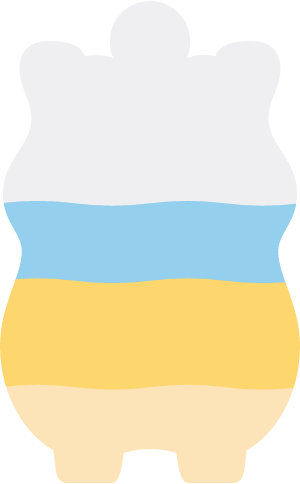
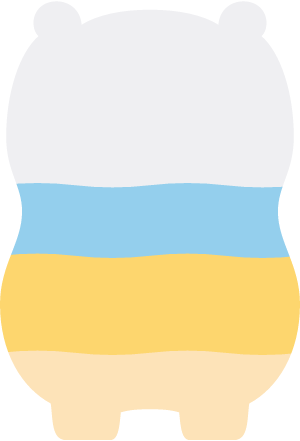
Retrace CapybaraSilhouette to the v2 proportions
Ears to soles at the art's own 459x677 px (aspect 0.68), with the yuzu left out: domed head,
two small separate ears with notches where they meet it, round cheeks, a slight waist, a belly
that bulges at the sides, and two short legs with a gap. verticalExtent now runs from the ear
tips to the soles. Re-rendered fill-preview.png and updated the brand README.

diff --git a/MilkBaby/Mascot/CapybaraSilhouette.swift b/MilkBaby/Mascot/CapybaraSilhouette.swift
@@ -1,25 +1,25 @@
 import SwiftUI
 
-/// The MilkBaby capybara from the front, as on the hero art: yuzu on top, round head with tiny ears,
-/// chubby pear-shaped body and short legs. Drawn in a 62×100 view box (the shape stretches to its
-/// rect, so give it a `CapybaraSilhouette.aspect` frame). Master artwork: `docs/brand/capybara-silhouette.svg`.
+/// The MilkBaby capybara from the front, as on the hero art: domed head with two small round ears,
+/// round cheeks, chubby belly and two short legs (the yuzu is left out). Drawn in a 68×100 view box,
+/// the art's own proportions; the shape stretches to its rect, so give it a `CapybaraSilhouette.aspect`
+/// frame. Master artwork: `docs/brand/capybara-silhouette.svg`.
 struct CapybaraSilhouette: Shape {
     /// Width ÷ height.
     static let aspect: CGFloat = viewBox.width / viewBox.height
-    /// Yuzu top to soles as fractions of the rect height, so fills can map 0–100% onto the body itself.
-    static let verticalExtent: ClosedRange<CGFloat> = 0.002...0.998
-    private static let viewBox = CGSize(width: 62, height: 100)
+    /// Ear tips to soles as fractions of the rect height, so fills can map 0–100% onto the body itself.
+    static let verticalExtent: ClosedRange<CGFloat> = 0...0.998
+    private static let viewBox = CGSize(width: 68, height: 100)
     private static let outline = SVGPath("""
-        M 31 0.2 C 35.6 0.2 39.3 3.9 39.3 8.5 C 39.3 10 39 11.3 38.5 12
-        C 40.5 11.3 42.5 11.2 44.5 11.6 C 45.5 8.8 49 8.4 52.5 8.5 C 56.5 8.6 58.6 11.5 57.8 16
-        C 57.3 19 55.5 21 55.5 24.5 C 55.5 30 61.4 33 61.4 40 C 61.4 46 57.5 48 57.5 52
-        C 57.5 57 62 63 62 71.5 C 62 82 56.5 90 51 93 C 50.4 96 51 99.8 48 99.8
-        C 44 99.8 42 99.8 39 99.8 C 37 99.8 36.8 95.5 36.4 93.6 C 34.5 93 33 92.8 31 92.8
-        C 29 92.8 27.5 93 25.6 93.6 C 25.2 95.5 25 99.8 23 99.8 C 20 99.8 18 99.8 14 99.8
-        C 11 99.8 11.6 96 11 93 C 5.5 90 0 82 0 71.5 C 0 63 4.5 57 4.5 52
-        C 4.5 48 0.6 46 0.6 40 C 0.6 33 6.5 30 6.5 24.5 C 6.5 21 4.7 19 4.2 16
-        C 3.4 11.5 5.5 8.6 9.5 8.5 C 13 8.4 16.5 8.8 17.5 11.6 C 19.5 11.2 21.5 11.3 23.5 12
-        C 23 11.3 22.7 10 22.7 8.5 C 22.7 3.9 26.4 0.2 31 0.2 Z
+        M 34 2.2 C 40.5 2.2 46 3.4 49.5 5.6 C 49.8 2 52.5 0.3 55.2 0.3
+        C 58.6 0.3 60.6 2.8 60.4 5.6 C 60.3 6.8 59.9 7.6 59.3 8.2 C 63.6 12 66.6 21 66.6 31
+        C 66.6 39 63 42 63 48 C 63 55 68 60 68 69 C 68 80 63 88 56.5 91.5
+        C 56 95 56.4 99.8 53 99.8 C 49 99.8 46 99.8 43 99.8 C 41 99.8 40.9 96 40.6 93.5
+        C 38.5 92.9 36.5 92.8 34 92.8 C 31.5 92.8 29.5 92.9 27.4 93.5 C 27.1 96 27 99.8 25 99.8
+        C 22 99.8 19 99.8 15 99.8 C 11.6 99.8 12 95 11.5 91.5 C 5 88 0 80 0 69
+        C 0 60 5 55 5 48 C 5 42 1.4 39 1.4 31 C 1.4 21 4.4 12 8.7 8.2
+        C 8.1 7.6 7.7 6.8 7.6 5.6 C 7.4 2.8 9.4 0.3 12.8 0.3 C 15.5 0.3 18.2 2 18.5 5.6
+        C 22 3.4 27.5 2.2 34 2.2 Z
         """)
 
     func path(in rect: CGRect) -> Path {

diff --git a/MilkBaby/Mascot/MascotFillView.swift b/MilkBaby/Mascot/MascotFillView.swift
@@ -52,7 +52,7 @@ struct MascotFillView: View {
     }
 }
 
-/// Everything below a gently waving line at `level` (0 = soles, 1 = top of the yuzu) of the capybara.
+/// Everything below a gently waving line at `level` (0 = soles, 1 = ear tips) of the capybara.
 private struct FillBand: Shape {
     var level: Double
     var phase: Double
@@ -67,7 +67,7 @@ private struct FillBand: Shape {
         let amplitude = rect.height * 0.012
         let extent = CapybaraSilhouette.verticalExtent
         let bottom = rect.minY + rect.height * extent.upperBound
-        // At 100% the wave troughs sit above the yuzu, so a full capybara has no gap at the top.
+        // At 100% the wave troughs sit above the ears, so a full capybara has no gap at the top.
         let top = rect.minY + rect.height * extent.lowerBound - amplitude
         let surface = bottom - (bottom - top) * level
         let steps = 32

diff --git a/docs/brand/tools/silhouette_half.py b/docs/brand/tools/silhouette_half.py
@@ -1,37 +1,42 @@
 """Generates the CapybaraSilhouette path: the right half is hand-placed against
-source/capybara-v2.png (see README), then mirrored so the shape is exactly symmetric.
+source/capybara-v2.png (ears to soles, yuzu left out), then mirrored so the shape is exactly
+symmetric. View box 68 x 100, matching the art's 0.68 width-to-height.
 
 usage: python3 silhouette_half.py  -> prints the SVG path data
 """
-# Right half of the front-facing capybara, clockwise from the top of the yuzu to the centre between the feet.
-# Mirrored to make the left half. Units: view box 62 x 100.
-W = 62
-start = (31, 0.2)
+W = 68
+start = (34, 2.2)                                   # top of the domed head, centre line
 right = [
-    ((35.6, 0.2), (39.3, 3.9), (39.3, 8.5)),        # yuzu
-    ((39.3, 10), (39, 11.3), (38.5, 12)),
-    ((40.5, 11.3), (42.5, 11.2), (44.5, 11.6)),     # head top
-    ((45.5, 8.8), (49, 8.4), (52.5, 8.5)),          # ear
-    ((56.5, 8.6), (58.6, 11.5), (57.8, 16)),
-    ((57.3, 19), (55.5, 21), (55.5, 24.5)),          # temple
-    ((55.5, 30), (61.4, 33), (61.4, 40)),            # cheek
-    ((61.4, 46), (57.5, 48), (57.5, 52)),            # neck
-    ((57.5, 57), (62, 63), (62, 71.5)),              # belly
-    ((62, 82), (56.5, 90), (51, 93)),                # bottom
-    ((50.4, 96), (51, 99.8), (48, 99.8)),            # foot
-    ((44, 99.8), (42, 99.8), (39, 99.8)),
-    ((37, 99.8), (36.8, 95.5), (36.4, 93.6)),        # inner leg
-    ((34.5, 93), (33, 92.8), (31, 92.8)),            # crotch
+    ((40.5, 2.2), (46, 3.4), (49.5, 5.6)),          # dome down to the inner corner of the ear
+    ((49.8, 2), (52.5, 0.3), (55.2, 0.3)),          # small round ear
+    ((58.6, 0.3), (60.6, 2.8), (60.4, 5.6)),
+    ((60.3, 6.8), (59.9, 7.6), (59.3, 8.2)),        # outer corner where the ear meets the head
+    ((63.6, 12), (66.6, 21), (66.6, 31)),           # round head down to the cheek
+    ((66.6, 39), (63, 42), (63, 48)),               # waist under the cheek
+    ((63, 55), (68, 60), (68, 69)),                 # belly, widest point
+    ((68, 80), (63, 88), (56.5, 91.5)),             # belly round to the base
+    ((56, 95), (56.4, 99.8), (53, 99.8)),           # outer foot
+    ((49, 99.8), (46, 99.8), (43, 99.8)),           # sole
+    ((41, 99.8), (40.9, 96), (40.6, 93.5)),         # inner leg
+    ((38.5, 92.9), (36.5, 92.8), (34, 92.8)),       # gap between the legs, centre line
 ]
-def mirror(p): return (round(W - p[0], 2), p[1])
-segs = []
-prev = start
+
+
+def mirror(p):
+    return (round(W - p[0], 2), p[1])
+
+
+segments = []
+previous = start
 for c1, c2, end in right:
-    segs.append((prev, c1, c2, end)); prev = end
-left = [(mirror(e), mirror(c2), mirror(c1), mirror(s)) for (s, c1, c2, e) in reversed(segs)]
-def f(p): return f"{p[0]:g} {p[1]:g}"
-lines = [f"M {f(start)}"]
-for s, c1, c2, e in segs + left:
-    lines.append(f"C {f(c1)} {f(c2)} {f(e)}")
-lines.append("Z")
-print(" ".join(lines))
+    segments.append((previous, c1, c2, end))
+    previous = end
+left = [(mirror(e), mirror(c2), mirror(c1), mirror(s)) for (s, c1, c2, e) in reversed(segments)]
+
+
+def fmt(p):
+    return f"{p[0]:g} {p[1]:g}"
+
+
+commands = [f"M {fmt(start)}"] + [f"C {fmt(c1)} {fmt(c2)} {fmt(e)}" for _, c1, c2, e in segments + left] + ["Z"]
+print(" ".join(commands))

diff --git a/docs/brand/README.md b/docs/brand/README.md
@@ -23,17 +23,18 @@ The approved originals, made with Higgsfield, are in `source/`:
 | `CapybaraLogo` image set | Icon render masked to a circle, 600² | `CapybaraLogo` | Splash |
 | `AppIcon.png` (1024², RGB, no alpha) | Icon render, downscaled | — | Home screen |
 | `MilkBaby/Resources/goal-reached.mp4` | `goal-reached.mp4` with the grey background levelled to pure white, no audio track | `GoalReachedView`, `GoalReachedOverlay` | Celebration when the daily goal is first reached |
-| `capybara-silhouette.svg` | Hand-placed over `capybara-v2.png`, mirrored (`tools/silhouette_half.py`) | `CapybaraSilhouette`, `MascotFillView` | Home fill meter |
+| `capybara-silhouette.svg` | Traced over `capybara-v2.png` (yuzu left out), mirrored (`tools/silhouette_half.py`) | `CapybaraSilhouette`, `MascotFillView` | Home fill meter |
 
 ![fill meter](fill-preview.png)
 
 ### Silhouette
 
-The silhouette is the character from the front: yuzu bump, round head, tiny round ears, chubby
-pear-shaped body and two short legs. It is drawn in a 62×100 view box, so
-`CapybaraSilhouette.aspect` is 0.62. Always size it with that constant, not a literal.
-`MascotFillView` maps 0–100% from the soles to the top of the yuzu
-(`CapybaraSilhouette.verticalExtent`).
+The silhouette is the character from the front, ears to soles: a domed head with two small,
+separate round ears, round cheeks, a slight waist, a chubby belly that bulges at the sides, and two
+short legs with a gap between them. The yuzu is left out so the head reads cleanly at low fill
+levels. It is drawn in a 68×100 view box, which matches the art (459 px wide by 677 px from ear tip
+to sole), so `CapybaraSilhouette.aspect` is 0.68. Always size it with that constant, not a literal.
+`MascotFillView` maps 0–100% from the soles to the ear tips (`CapybaraSilhouette.verticalExtent`).
 
 To change the shape, edit the right-half points in `tools/silhouette_half.py`, then paste its
 output into both `capybara-silhouette.svg` and `CapybaraSilhouette.swift`. The Swift `SVGPath`
